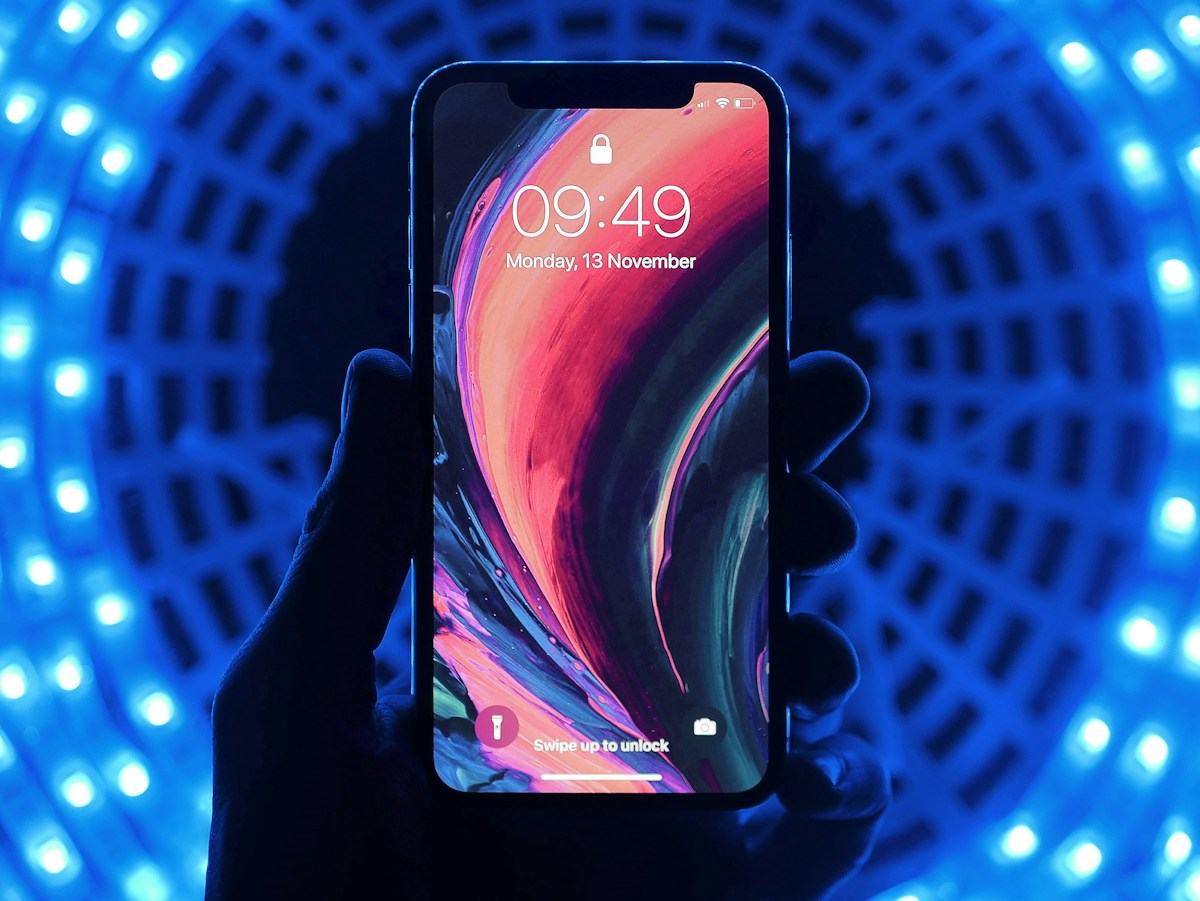
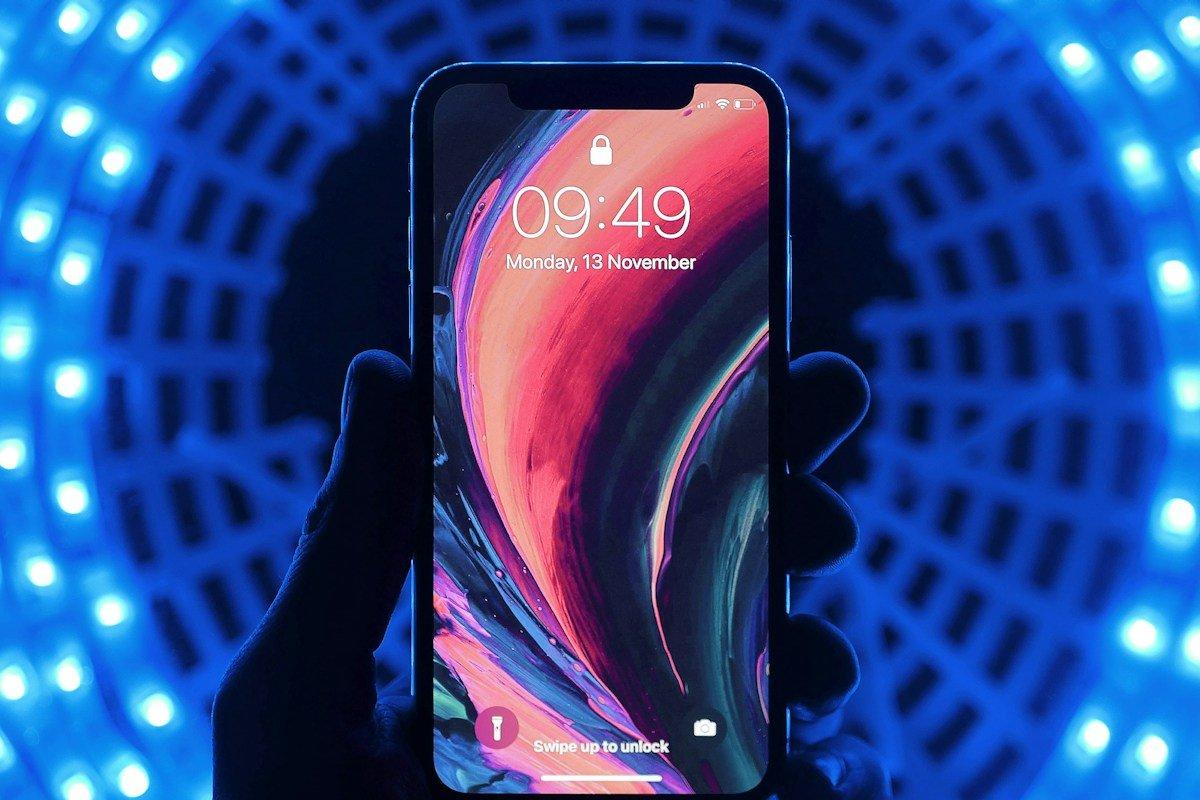
Standardize article social images using master reference

diff --git a/comparisons/apple-watch-vs-pixel-watch-vs-galaxy-watch.html b/comparisons/apple-watch-vs-pixel-watch-vs-galaxy-watch.html
@@ -25,7 +25,7 @@
   <meta property="og:image:secure_url" content="https://smartgearpick.com/assets/images/articles/apple-watch-vs-pixel-watch-vs-galaxy-watch.jpg">
   <meta property="og:image:type" content="image/jpeg">
   <meta property="og:image:width" content="1200">
-  <meta property="og:image:height" content="1800">
+  <meta property="og:image:height" content="800">
 
   <!-- Twitter Card Meta -->
   <meta name="twitter:card" content="summary_large_image">

diff --git a/guides/should-you-upgrade-your-phone-in-2026.html b/guides/should-you-upgrade-your-phone-in-2026.html
@@ -25,7 +25,7 @@
   <meta property="og:image:secure_url" content="https://smartgearpick.com/assets/images/articles/should-you-upgrade-your-phone-in-2026.jpg">
   <meta property="og:image:type" content="image/jpeg">
   <meta property="og:image:width" content="1200">
-  <meta property="og:image:height" content="1800">
+  <meta property="og:image:height" content="800">
 
   <!-- Twitter Card Meta -->
   <meta name="twitter:card" content="summary_large_image">

diff --git a/guides/smart-home-devices-that-actually-work.html b/guides/smart-home-devices-that-actually-work.html
@@ -25,7 +25,7 @@
   <meta property="og:image:secure_url" content="https://smartgearpick.com/assets/images/articles/smart-home-devices-that-actually-work.jpg">
   <meta property="og:image:type" content="image/jpeg">
   <meta property="og:image:width" content="1200">
-  <meta property="og:image:height" content="1797">
+  <meta property="og:image:height" content="800">
 
   <!-- Twitter Card Meta -->
   <meta name="twitter:card" content="summary_large_image">

diff --git a/guides/best-budget-smartphones-under-200.html b/guides/best-budget-smartphones-under-200.html
@@ -25,7 +25,7 @@
   <meta property="og:image:secure_url" content="https://smartgearpick.com/assets/images/articles/best-budget-smartphones-under-200.jpg">
   <meta property="og:image:type" content="image/jpeg">
   <meta property="og:image:width" content="1200">
-  <meta property="og:image:height" content="1599">
+  <meta property="og:image:height" content="800">
 
   <!-- Twitter Card Meta -->
   <meta name="twitter:card" content="summary_large_image">

diff --git a/guides/best-budget-smartphones-under-300.html b/guides/best-budget-smartphones-under-300.html
@@ -25,7 +25,7 @@
   <meta property="og:image:secure_url" content="https://smartgearpick.com/assets/images/articles/best-budget-smartphones-under-300.jpg">
   <meta property="og:image:type" content="image/jpeg">
   <meta property="og:image:width" content="1200">
-  <meta property="og:image:height" content="673">
+  <meta property="og:image:height" content="800">
 
   <!-- Twitter Card Meta -->
   <meta name="twitter:card" content="summary_large_image">

diff --git a/comparisons/apple-watch-vs-samsung-vs-garmin.html b/comparisons/apple-watch-vs-samsung-vs-garmin.html
@@ -25,7 +25,7 @@
   <meta property="og:image:secure_url" content="https://smartgearpick.com/assets/images/articles/apple-watch-vs-samsung-vs-garmin.jpg">
   <meta property="og:image:type" content="image/jpeg">
   <meta property="og:image:width" content="1200">
-  <meta property="og:image:height" content="785">
+  <meta property="og:image:height" content="800">
 
   <!-- Twitter Card Meta -->
   <meta name="twitter:card" content="summary_large_image">

diff --git a/comparisons/sony-wf-1000xm6-vs-airpods-pro-3.html b/comparisons/sony-wf-1000xm6-vs-airpods-pro-3.html
@@ -26,7 +26,7 @@
   <meta property="og:image:secure_url" content="https://smartgearpick.com/assets/images/articles/sony-wf-1000xm6-vs-airpods-pro-3.jpg">
   <meta property="og:image:type" content="image/jpeg">
   <meta property="og:image:width" content="1200">
-  <meta property="og:image:height" content="704">
+  <meta property="og:image:height" content="800">
 
   <!-- Twitter Card Meta -->
   <meta name="twitter:card" content="summary_large_image">

diff --git a/guides/smart-home-automation-essentials.html b/guides/smart-home-automation-essentials.html
@@ -25,7 +25,7 @@
   <meta property="og:image:secure_url" content="https://smartgearpick.com/assets/images/articles/smart-home-automation-essentials.jpg">
   <meta property="og:image:type" content="image/jpeg">
   <meta property="og:image:width" content="1200">
-  <meta property="og:image:height" content="801">
+  <meta property="og:image:height" content="800">
 
   <!-- Twitter Card Meta -->
   <meta name="twitter:card" content="summary_large_image">

diff --git a/reviews/samsung-galaxy-z-fold-7-review.html b/reviews/samsung-galaxy-z-fold-7-review.html
@@ -25,7 +25,7 @@
   <meta property="og:image:secure_url" content="https://smartgearpick.com/assets/images/articles/samsung-galaxy-z-fold-7-review.jpg">
   <meta property="og:image:type" content="image/jpeg">
   <meta property="og:image:width" content="1200">
-  <meta property="og:image:height" content="1499">
+  <meta property="og:image:height" content="800">
 
   <!-- Twitter Card Meta -->
   <meta name="twitter:card" content="summary_large_image">

diff --git a/comparisons/iphone-fold-vs-galaxy-z-fold-7.html b/comparisons/iphone-fold-vs-galaxy-z-fold-7.html
@@ -25,7 +25,7 @@
   <meta property="og:image:secure_url" content="https://smartgearpick.com/assets/images/articles/iphone-fold-vs-galaxy-z-fold-7.jpg">
   <meta property="og:image:type" content="image/jpeg">
   <meta property="og:image:width" content="1200">
-  <meta property="og:image:height" content="901">
+  <meta property="og:image:height" content="800">
 
   <!-- Twitter Card Meta -->
   <meta name="twitter:card" content="summary_large_image">

diff --git a/comparisons/amazon-echo-vs-google-nest.html b/comparisons/amazon-echo-vs-google-nest.html
@@ -25,7 +25,7 @@
   <meta property="og:image:secure_url" content="https://smartgearpick.com/assets/images/articles/amazon-echo-vs-google-nest.jpg">
   <meta property="og:image:type" content="image/jpeg">
   <meta property="og:image:width" content="1200">
-  <meta property="og:image:height" content="1800">
+  <meta property="og:image:height" content="800">
 
   <!-- Twitter Card Meta -->
   <meta name="twitter:card" content="summary_large_image">

diff --git a/guides/best-smartwatches-under-200.html b/guides/best-smartwatches-under-200.html
@@ -25,7 +25,7 @@
   <meta property="og:image:secure_url" content="https://smartgearpick.com/assets/images/articles/best-smartwatches-under-200.jpg">
   <meta property="og:image:type" content="image/jpeg">
   <meta property="og:image:width" content="1200">
-  <meta property="og:image:height" content="872">
+  <meta property="og:image:height" content="800">
 
   <!-- Twitter Card Meta -->
   <meta name="twitter:card" content="summary_large_image">
